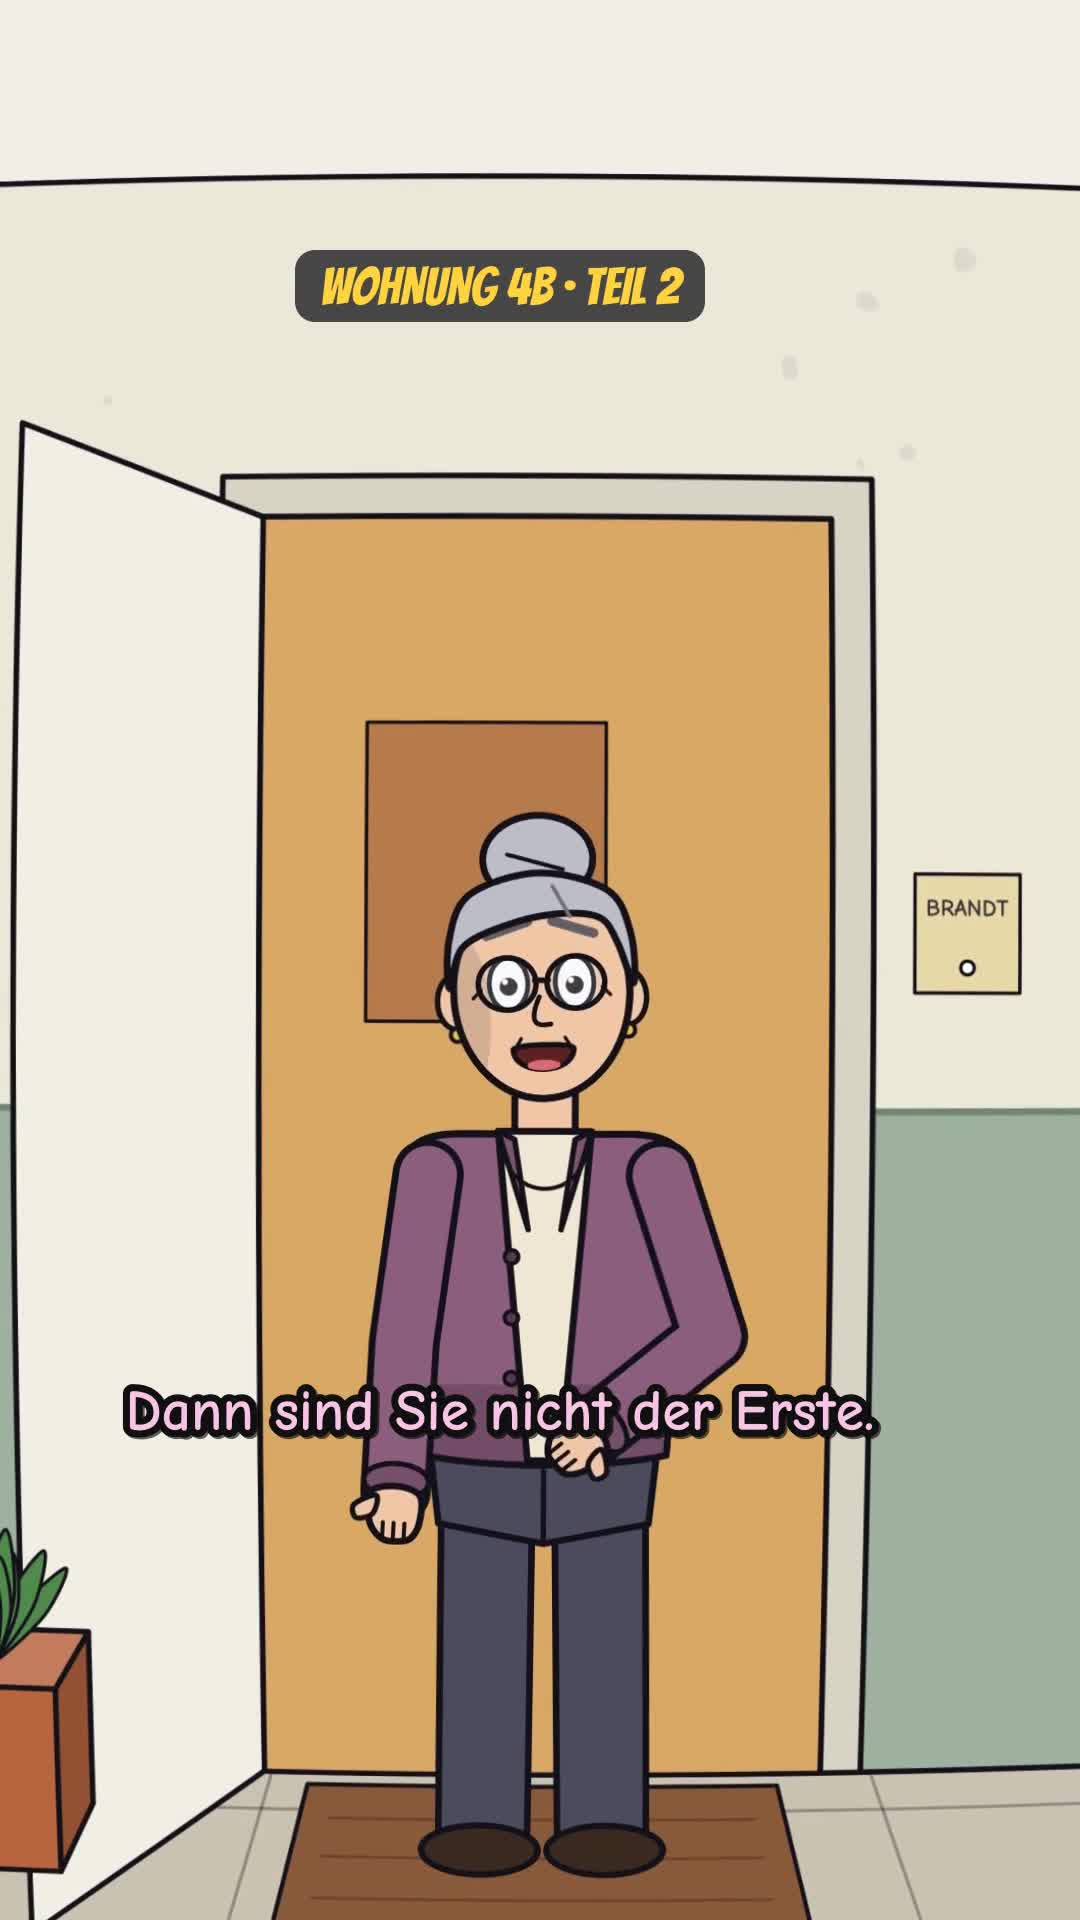
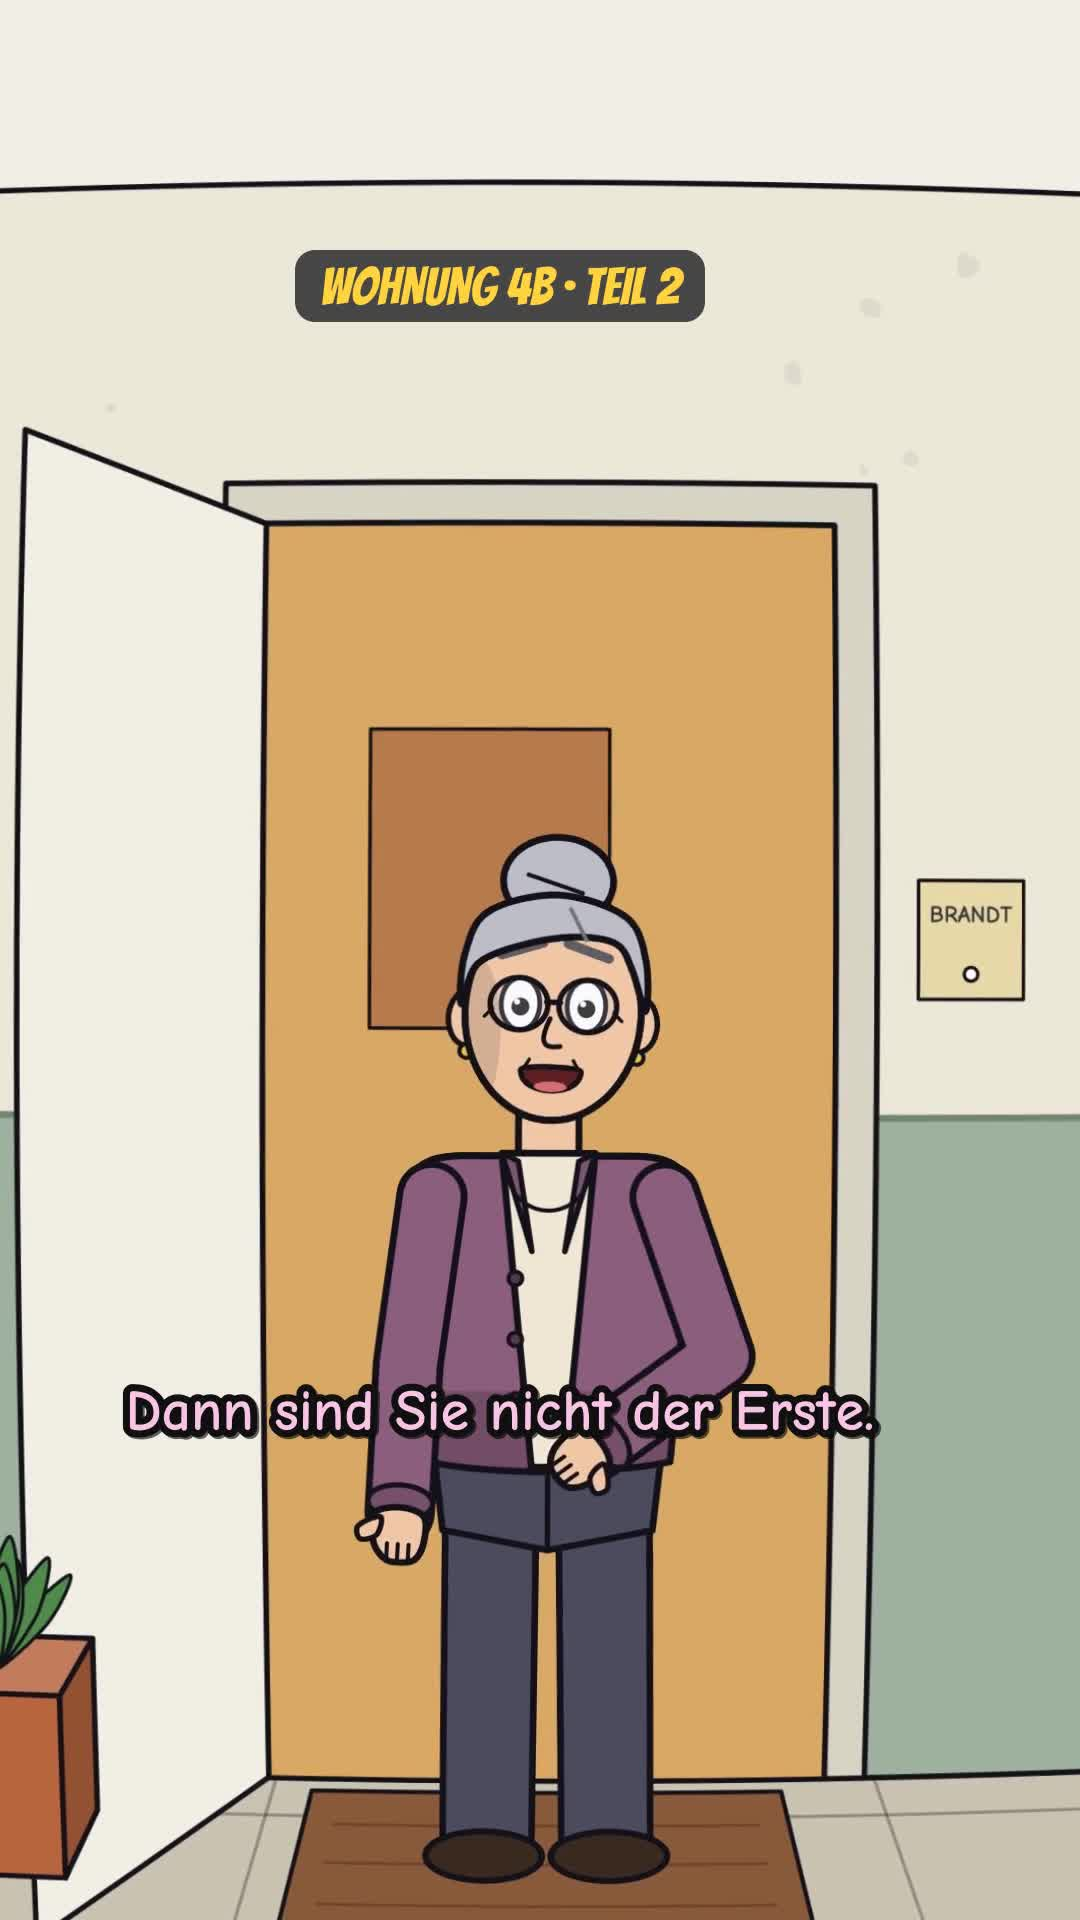
Teil 2 (Qwen3): Zeile 2.0 langsamer, Neuproduktion
Claude-Session: https://claude.ai/code/session_01RiyoyRirY4FL9pZr35AzJn

Changed region(s): [[0.0, 0.2188, 1.0, 1.0], [0.0, 0.0625, 0.5806, 0.125], [0.5806, 0.0938, 1.0, 0.125]]

diff --git a/episodes/wohnung-4b-e02/qc_report.md b/episodes/wohnung-4b-e02/qc_report.md
@@ -1,6 +1,6 @@
-# QC-Bericht – Versuch 2
+# QC-Bericht – Versuch 1
 
-**Gesamt: 99.0 / 100** – BESTANDEN (Mindestwert 90)
+**Gesamt: 97.0 / 100** – BESTANDEN (Mindestwert 90)
 
 | Kategorie | Punkte |
 |---|---|
@@ -9,21 +9,21 @@
 | stimmen | 20.0 / 20 |
 | bild | 15 / 15 |
 | konsistenz | 10 / 10 |
-| story | 15 / 15 |
+| story | 13 / 15 |
 | untertitel | 9 / 10 |
 
 | Prüfung | OK | Punkte | Detail |
 |---|---|---|---|
 | Auflösung 1080x1920 (9:16) | ✅ | 5/5 | 1080x1920 |
 | 30 fps | ✅ | 2/2 | 30.00 |
-| Dauer 30-60 s | ✅ | 4/4 | 57.4 s |
+| Dauer 30-60 s | ✅ | 4/4 | 52.1 s |
 | H.264/yuv420p + AAC | ✅ | 2/2 | h264/yuv420p |
-| Dateigröße < 250 MB | ✅ | 2/2 | 10.3 MB |
-| Lautheit -14 LUFS ±1,5 | ✅ | 6/6 | -14.1 LUFS |
-| True Peak ≤ -1 dBTP | ✅ | 4/4 | -1.1 dBTP |
+| Dateigröße < 250 MB | ✅ | 2/2 | 9.4 MB |
+| Lautheit -14 LUFS ±1,5 | ✅ | 6/6 | -14.3 LUFS |
+| True Peak ≤ -1 dBTP | ✅ | 4/4 | -1.3 dBTP |
 | Keine Übersteuerung | ✅ | 2/2 | 0.000 % Samples |
-| Ton hörbar (nicht stumm) | ✅ | 3/3 | -14.1 LUFS |
-| Sprachverständlichkeit (Whisper-Abgleich) | ✅ | 20.0/20 | Ø 0.99, 0 Zeile(n) unter Mindestwert (0.85, lange Sätze strenger) oder mit Nachlaut/Wiederholung |
+| Ton hörbar (nicht stumm) | ✅ | 3/3 | -14.3 LUFS |
+| Sprachverständlichkeit (Whisper-Abgleich) | ✅ | 20.0/20 | Ø 0.98, 0 Zeile(n) unter Mindestwert (0.85, lange Sätze strenger) oder mit Nachlaut/Wiederholung |
 | Keine Render-Fehler | ✅ | 5/5 | 0 fehlerhafte Bilder |
 | Keine ungeplanten Schwarzbilder | ✅ | 4/4 | [] |
 | Keine eingefrorenen Bilder > 2,5 s | ✅ | 4/4 | [] |
@@ -33,7 +33,7 @@
 | Hook in der 1. Sekunde | ✅ | 3/3 | 0.00 s |
 | Cliffhanger + A/B-Abstimmung | ✅ | 4/4 |  |
 | Zeilen ≤ 22 Wörter | ✅ | 2/2 | [] |
-| Sprechtempo ≤ 4 Wörter/s | ✅ | 2/2 | [] |
+| Sprechtempo ≤ 4 Wörter/s | ❌ | 0/2 | ['Doch schlafen konnte ich diese Nacht nicht.'] |
 | Einstellungslänge 1-8,5 s (Tempo) | ✅ | 2/2 | [] |
 | Nur Figuren aus dem Serien-Cast | ✅ | 2/2 | [] |
 | Jede Dialogzeile untertitelt | ✅ | 4/4 | 26 Einblendungen |
@@ -45,16 +45,16 @@
 
 | Zeile | Sprecher | Soll | Gehört | Ähnlichkeit |
 |---|---|---|---|---|
-| 0.0 | du | Ihr habt euch für B entschieden. Richtige Antwort ... oder? | Ihr habt euch für B entschieden, richtige Antwort, oder? | 1.0 |
+| 0.0 | du | Ihr habt euch für B entschieden. Richtige Antwort ... oder? | Ihr habt Euch für B entschieden. Richtige Antwort oder? | 1.0 |
 | 1.0 | du | Nach dreißig Minuten ununterbrochenem Klopfen ging sie endlich. | Nach 30 Minuten ununterbrochenem Klopfen ging sie endlich. | 0.895 |
 | 2.0 | du | Doch schlafen konnte ich diese Nacht nicht. | Doch schlafen konnte ich diese Nacht nicht. | 1.0 |
 | 3.0 | du | Ich beschloss herauszufinden, was hier los ist. | Ich beschloss herauszufinden, was hier los ist. | 1.0 |
 | 4.0 | du | Am Morgen lag ein Zettel unter meiner Tür. | Am Morgen lag ein Zettel unter meiner Tür. | 1.0 |
-| 5.0 | du | Guten Morgen, Frau Brandt. Haben Sie heute Nacht bei mir geklopft? | Guten Morgen, Frau Brandt. Haben Sie heute Nacht bei mir geklopft? | 1.0 |
-| 5.1 | helga | Ich? Ich habe die ganze Nacht geschlafen. Wie ein Stein! | Ich habe die ganze Nacht geschlafen, wie ein Stein. | 0.953 |
-| 6.0 | helga | Aber ... hat die Stimme gesagt: Ich bin's? | Aber hat die Stimme gesagt, ich bin's? | 1.0 |
+| 5.0 | du | Guten Morgen, Frau Brandt. Haben Sie heute Nacht bei mir geklopft? | Guten Morgen Frau Brandt, haben Sie heute Nacht bei mir geklopft? | 1.0 |
+| 5.1 | helga | Ich? Ich habe die ganze Nacht geschlafen. Wie ein Stein! | ich? Ich habe die ganze Nacht geschlafen, wie ein Stein. | 1.0 |
+| 6.0 | helga | Aber ... hat die Stimme gesagt: Ich bin's? | Aber, hat die Stimme gesagt, ich bin's. | 1.0 |
 | 6.1 | du | Ja. | Ja. | 1.0 |
-| 7.0 | helga | Dann sind Sie nicht der Erste. | Dann sind sie nicht der Erste. | 1.0 |
-| 8.0 | okan | Frau Brandt. Wir reden nicht über den Vormieter. | Frau Brandt, wir reden nicht über den Vormieter! | 1.0 |
-| 8.1 | okan | Nicht über den Vormieter. | nicht über den Vormieter. | 1.0 |
-| 9.0 | du | Was soll ich tun? A: Heute Nacht durch den Türspion schauen. Oder B: Okan heimlich folgen? Schreib es in die Kommentare! | Was soll ich tun? A. Heute Nacht durch den Türspion schauen. Oder B. Okan heimlich folgen. Schreib es in die Kommentare. | 1.0 |
+| 7.0 | helga | Dann sind Sie nicht der Erste. | Und dann sind sie nicht der Erste. | 0.928 |
+| 8.0 | okan | Frau Brandt. Wir reden nicht über den Vormieter. | Frau Brandt, wir reden nicht über den Vormieter. | 1.0 |
+| 8.1 | okan | Nicht über den Vormieter. | Nicht über den Vormieter. | 1.0 |
+| 9.0 | du | Was soll ich tun? A: Heute Nacht durch den Türspion schauen. Oder B: Okan heimlich folgen? Schreib es in die Kommentare! | Was soll ich tun? A. Heute Nacht durch den Türspion schauen oder B. O kann heimlich folgen? Schreib es in die Kommentare. | 0.955 |
